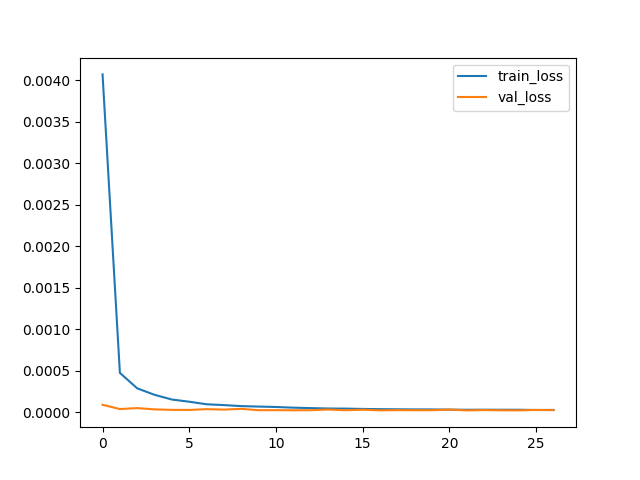
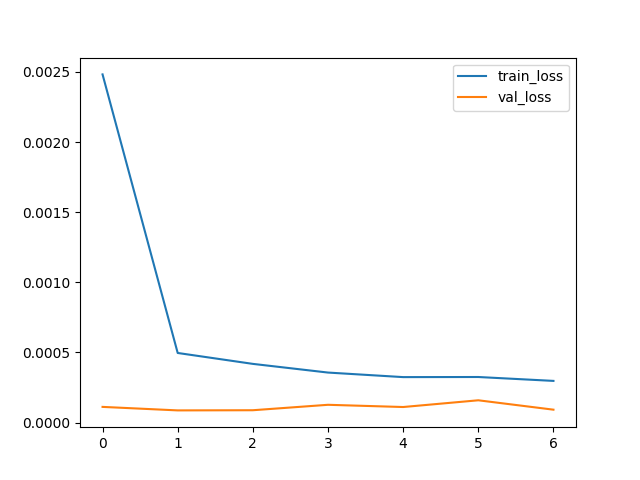
Update trading strategy parameters and optimize performance metrics; adjust threshold and ticker symbol

diff --git a/trade_lstm_top_param_applied_to_nikkei.py b/trade_lstm_top_param_applied_to_nikkei.py
@@ -18,20 +18,29 @@ SCALING_FACTOR = 200
 THRESHOLD = 0.2
 MAX_POSITION = 2.0
 TRANSACTION_COST = 0.001
-ticker = "7974.T"
+ticker = "7203.T"
 
 MODEL_DIR = 'model'
 OUTPUT_DIR = 'output'
-FILE_NAME = os.path.basename(__file__)
+MASTER_DATA_DIR = 'master_data'
+INPUT_CSV = os.path.join(MASTER_DATA_DIR, 'nikkei_combined_5min_cleaned.csv')
+FILE_NAME_RUNNING = os.path.basename(__file__)
+
+start_date = pd.to_datetime('2024-01-01')
+end_date = pd.to_datetime('2024-05-31')
 
 # Results storage
 results = []
+# trades = []
 
 try:
     # データ取得
-    data = yf.download(ticker, interval="5m", start="2025-03-01", end="2025-04-29")
-    if isinstance(data.columns, pd.MultiIndex):
-        data.columns = data.columns.get_level_values(0)
+    data = pd.read_csv(INPUT_CSV, parse_dates=['Datetime'])
+    data['Datetime'] = pd.to_datetime(data['Datetime'], errors='coerce')
+    data = data[(data['Datetime'] >= start_date) & (data['Datetime'] <= end_date)]
+    data = data.set_index('Datetime')
+    data = data.dropna()
+
 
     # テクニカル指標
     data['Returns'] = data['Close'].pct_change()
@@ -76,7 +85,7 @@ try:
         batch_size=32,
         validation_data=(X_test, y_test),
         callbacks=[early_stopping],
-        verbose=0
+        verbose=1
     )
 
     # Plot training history
@@ -97,6 +106,10 @@ try:
     # 戦略リターン
     data['Strategy_Return'] = data['Position_Size'] * data['Future_Return']
     data['Strategy_Return'] = data['Strategy_Return'] - TRANSACTION_COST * data['Position_Size'].diff().abs()
+
+    print(f"Strategy_Return distribution:\n{data['Strategy_Return'].describe()}")
+    trades = data[data['Position_Size'].diff().abs() > 0]
+    print(f"Trades:\n{trades[['Position_Size', 'Predicted_Return', 'Future_Return', 'Strategy_Return']]}")
 
     # 結果評価
     cumulative_return = (1 + data['Strategy_Return'].fillna(0)).cumprod().iloc[-1]
@@ -125,7 +138,7 @@ try:
     # プロット
     plt.figure(figsize=(10, 6))
     (1 + data['Strategy_Return'].fillna(0)).cumprod().plot(label='Strategy Cumulative Return')
-    plt.title(f'{FILE_NAME} Trading Strategy Performance')
+    plt.title(f'{FILE_NAME_RUNNING} Trading Strategy Performance')
     plt.xlabel('Date')
     plt.ylabel('Cumulative Return')
     plt.legend()
@@ -140,6 +153,6 @@ try:
     print(f"予測リターンの標準偏差: {pred_return_std:.4f}")
 
 except Exception as e:
-    print(f"Error for {ticker}, SEQUENCE_LENGTH={SEQUENCE_LENGTH}, LOOKAHEAD_PERIOD={LOOKAHEAD_PERIOD}, SCALING_FACTOR={SCALING_FACTOR}, thresh={THRESHOLD}: {e}")
+    print(f"Error for {ticker}, SEQUENCE_LENGTH={SEQUENCE_LENGTH}, LOOKAHEAD_PERIOD={LOOKAHEAD_PERIOD}, SCALING_FACTOR={SCALING_FACTOR}, thresh={THRESHOLD}: {e.with_traceback()}")
 
 print("Optimization complete. Results saved to optimization_results.csv")

diff --git a/trade_lstm_top.py b/trade_lstm_top.py
@@ -15,31 +15,23 @@ import os
 SEQUENCE_LENGTH = 100
 LOOKAHEAD_PERIOD = 10
 SCALING_FACTOR = 200
-THRESHOLD = 0.05
+THRESHOLD = 0.2
 MAX_POSITION = 2.0
 TRANSACTION_COST = 0.001
 ticker = "7974.T"
 
 MODEL_DIR = 'model'
 OUTPUT_DIR = 'output'
-MASTER_DATA_DIR = 'master_data'
-INPUT_CSV = os.path.join(MASTER_DATA_DIR, 'nikkei_combined_5min_cleaned.csv')
-FILE_NAME_RUNNING = os.path.basename(__file__)
-
-start_date = pd.to_datetime('2024-03-01')
-end_date = pd.to_datetime('2024-04-29')
+FILE_NAME = os.path.basename(__file__)
 
 # Results storage
 results = []
 
 try:
     # データ取得
-    data = pd.read_csv(INPUT_CSV, parse_dates=['Datetime'])
-    data['Datetime'] = pd.to_datetime(data['Datetime'], errors='coerce')
-    data = data[(data['Datetime'] >= start_date) & (data['Datetime'] <= end_date)]
-    data = data.set_index('Datetime')
-    data = data.dropna()
-
+    data = yf.download(ticker, interval="5m", start="2025-03-02", end="2025-04-29")
+    if isinstance(data.columns, pd.MultiIndex):
+        data.columns = data.columns.get_level_values(0)
 
     # テクニカル指標
     data['Returns'] = data['Close'].pct_change()
@@ -84,7 +76,7 @@ try:
         batch_size=32,
         validation_data=(X_test, y_test),
         callbacks=[early_stopping],
-        verbose=0
+        verbose=1
     )
 
     # Plot training history
@@ -133,7 +125,7 @@ try:
     # プロット
     plt.figure(figsize=(10, 6))
     (1 + data['Strategy_Return'].fillna(0)).cumprod().plot(label='Strategy Cumulative Return')
-    plt.title(f'{FILE_NAME_RUNNING} Trading Strategy Performance')
+    plt.title(f'{FILE_NAME} Trading Strategy Performance')
     plt.xlabel('Date')
     plt.ylabel('Cumulative Return')
     plt.legend()
@@ -148,6 +140,6 @@ try:
     print(f"予測リターンの標準偏差: {pred_return_std:.4f}")
 
 except Exception as e:
-    print(f"Error for {ticker}, SEQUENCE_LENGTH={SEQUENCE_LENGTH}, LOOKAHEAD_PERIOD={LOOKAHEAD_PERIOD}, SCALING_FACTOR={SCALING_FACTOR}, thresh={THRESHOLD}: {e.with_traceback()}")
+    print(f"Error for {ticker}, SEQUENCE_LENGTH={SEQUENCE_LENGTH}, LOOKAHEAD_PERIOD={LOOKAHEAD_PERIOD}, SCALING_FACTOR={SCALING_FACTOR}, thresh={THRESHOLD}: {e}")
 
 print("Optimization complete. Results saved to optimization_results.csv")
